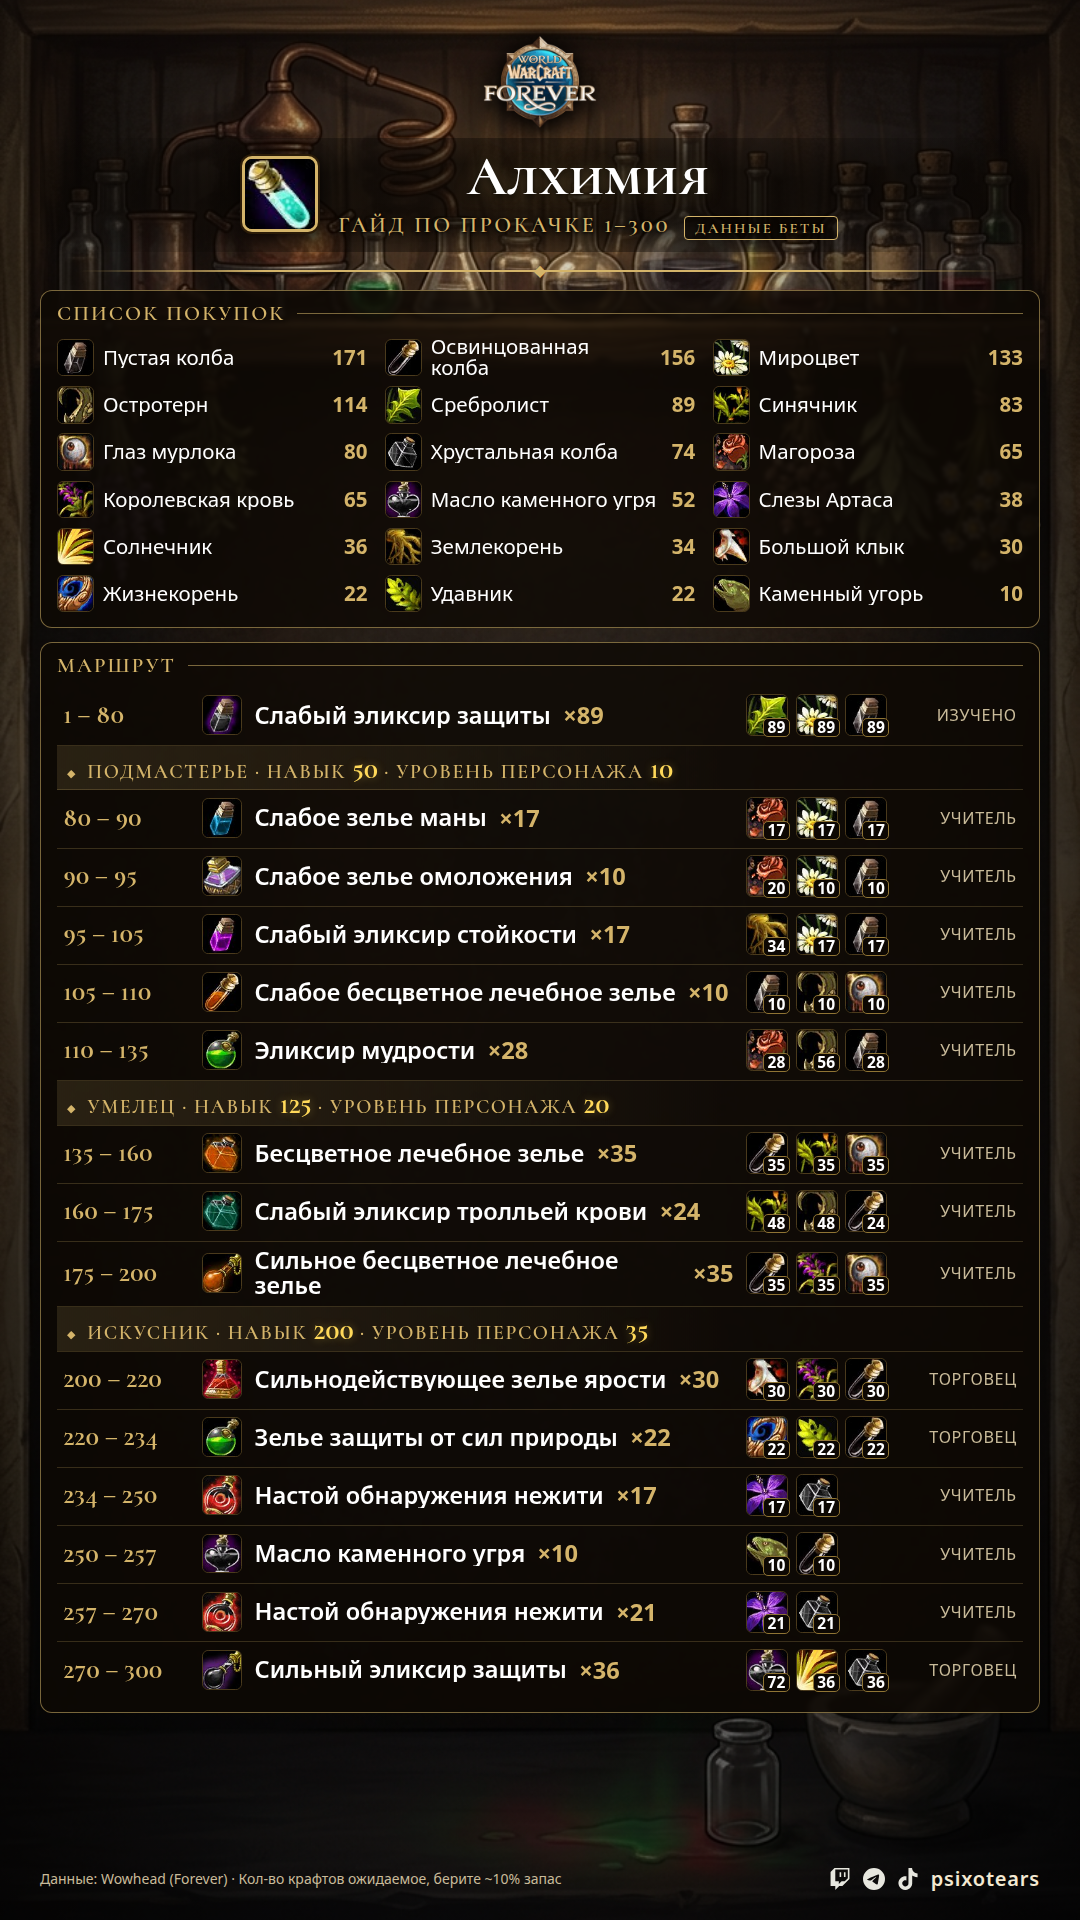
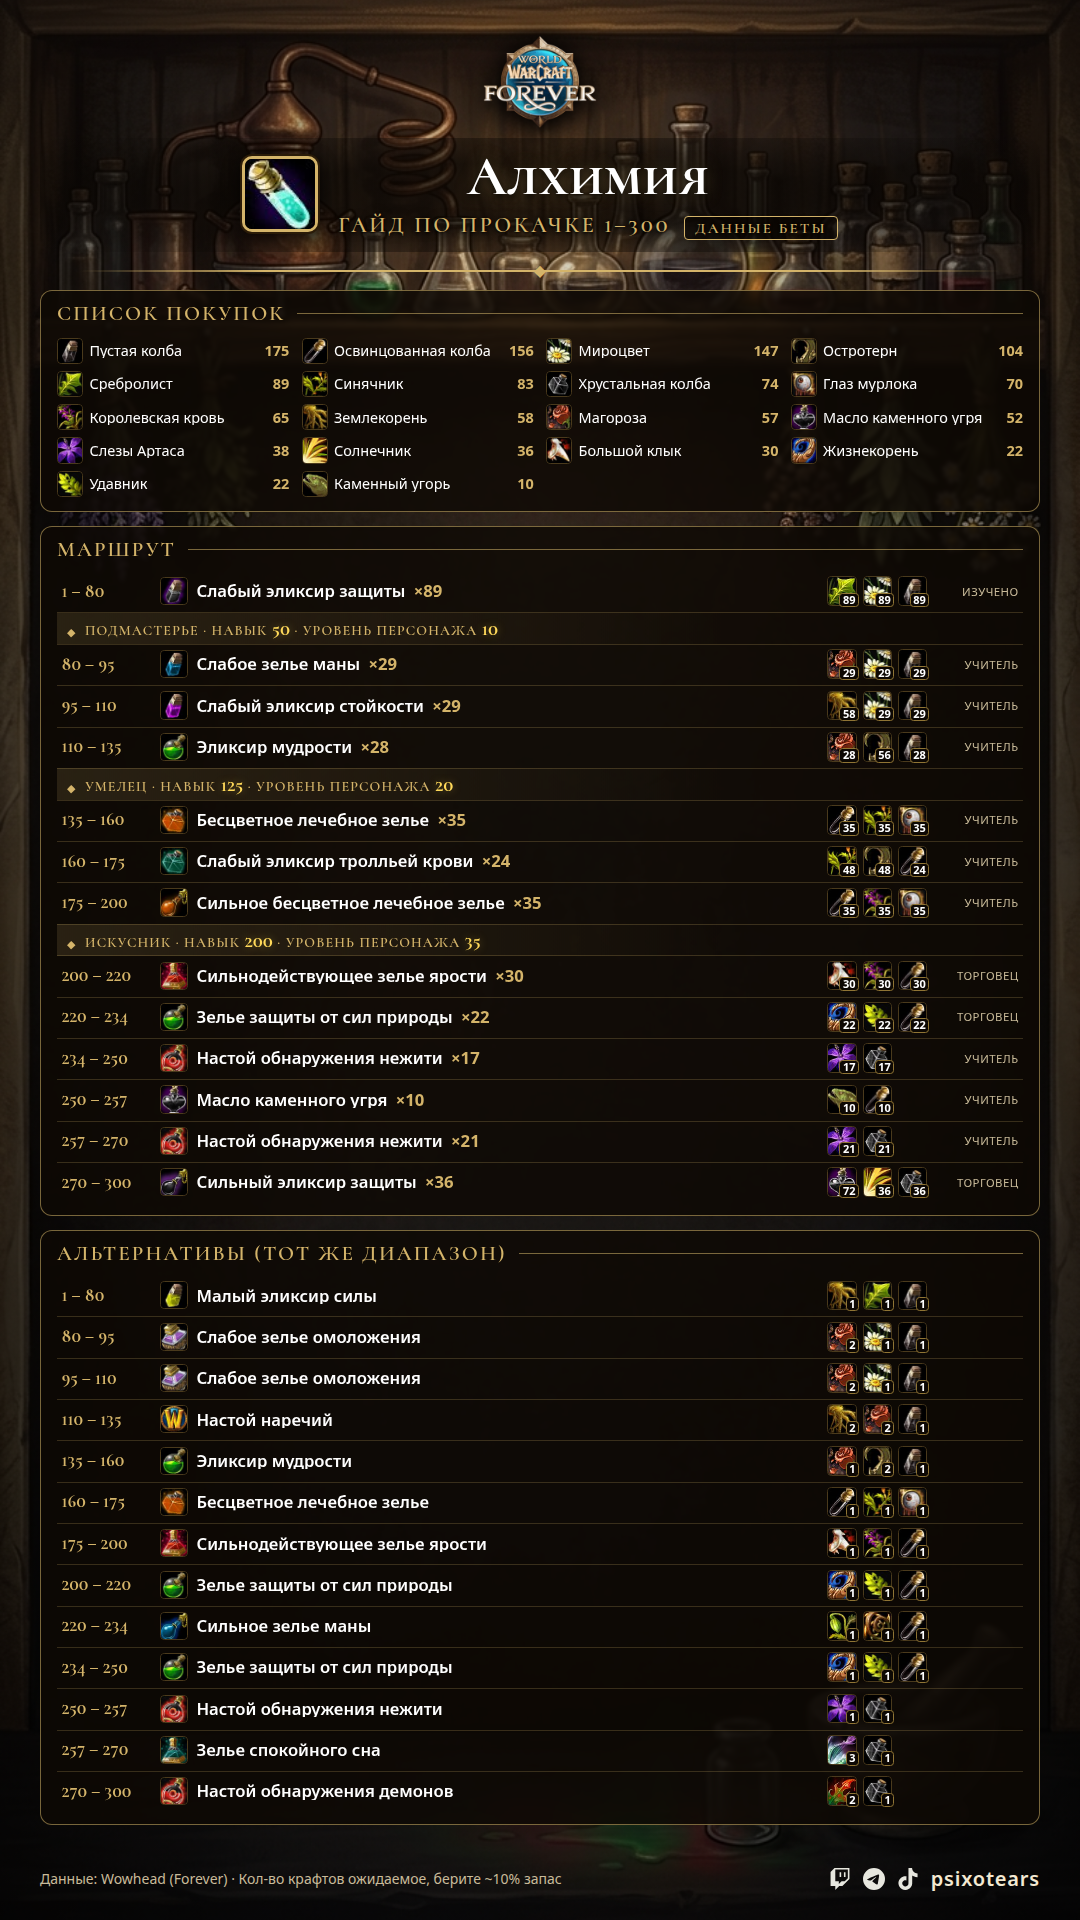
Keep craft count attached to wrapped recipe names
Claude-Session: https://claude.ai/code/session_012e8LnHD2AptEEnhumMxWH2

Changed region(s): [[0.0306, 0.1562, 0.9472, 0.9375], [0.8861, 0.1562, 0.9472, 0.3125], [0.6417, 0.5, 0.6722, 0.5312]]

diff --git a/wow-cards/pipeline/render.py b/wow-cards/pipeline/render.py
@@ -122,7 +122,7 @@ td.rec{width:auto}
 .rec .w{display:flex;align-items:center;gap:calc(10px * var(--s))}
 .rec img{width:calc(32px * var(--s));height:calc(32px * var(--s));border-radius:calc(5px * var(--s));border:calc(1.5px * var(--s)) solid #4a3a1c;flex:none}
 .rec .nm{font-size:calc(19px * var(--s));line-height:1.05;font-weight:600;display:-webkit-box;-webkit-line-clamp:2;-webkit-box-orient:vertical;overflow:hidden}
-.rec .x{color:var(--gold);font-weight:700;font-size:calc(19px * var(--s));white-space:nowrap}
+.rec .x{color:var(--gold);font-weight:700;font-size:calc(19px * var(--s));white-space:nowrap;display:inline;margin-left:4px}
 .rec .note{display:inline-block;margin-left:calc(8px * var(--s));font-size:calc(14px * var(--s));color:#ffb36b;border:calc(1px * var(--s)) solid #c7742d;border-radius:calc(4px * var(--s));padding:0 calc(6px * var(--s));vertical-align:middle;white-space:nowrap}
 td.mats{width:MATSW;white-space:nowrap}
 .mats .w{display:flex;gap:calc(6px * var(--s));justify-content:flex-start}
@@ -165,7 +165,7 @@ def build(prof, lang, bg='../../bg/placeholder.png', logo=None, s=1.0):
         rng = f'{st["from"]} – {st["to"]}' if st.get('to') else f'⚒ {st["from"]}+'
         rows.append(
             f'<tr><td class="rng{" extra" if st.get("extra") else ""}">{rng}</td>'
-            f'<td class="rec"><div class="w"><img src="../../icons/{st["icon"]}.jpg"><span class="nm" style="color:{QCOLOR.get(st["quality"], "#fff")}">{esc(st["name"][lang])}</span><span class="x">×{st["crafts"]}</span>{stop}</div></td>'
+            f'<td class="rec"><div class="w"><img src="../../icons/{st["icon"]}.jpg"><span class="nm" style="color:{QCOLOR.get(st["quality"], "#fff")}">{esc(st["name"][lang])} <span class="x">×{st["crafts"]}</span></span>{stop}</div></td>'
             f'<td class="mats"><div class="w">{mats}</div></td><td class="src">{esc(ui[st["source"]])}</td></tr>')
     maxm = max([len(st.get('reagents', [])) for st in d['steps']] + [1])
     alt_panel = ''

diff --git a/wow-cards/pipeline/fit.py b/wow-cards/pipeline/fit.py
@@ -17,7 +17,7 @@ def render(prof, s):
 
 
 for prof in PROFS:
-    lo, hi = (0.66 if prof in ('herbalism', 'mining') else 0.8), (1.5 if prof in ('skinning', 'fishing') else 1.25)
+    lo, hi = (0.66 if prof in ('herbalism', 'mining', 'leatherworking', 'tailoring') else 0.8), (1.5 if prof in ('skinning', 'fishing') else 1.25)
     best = None
     for _ in range(6):
         mid = round((lo + hi) / 2, 3)
